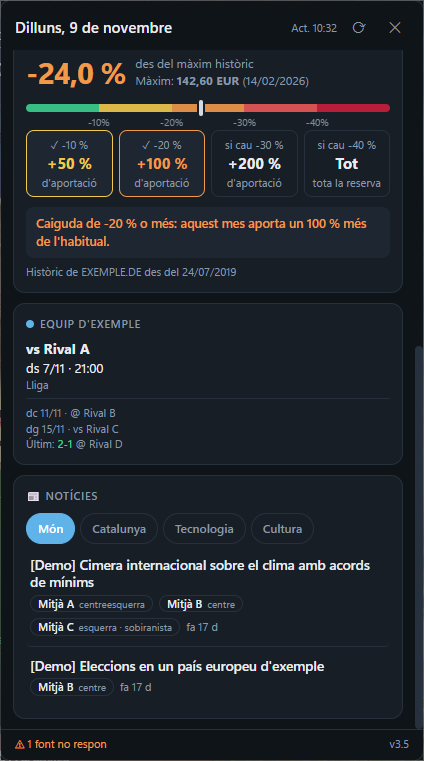
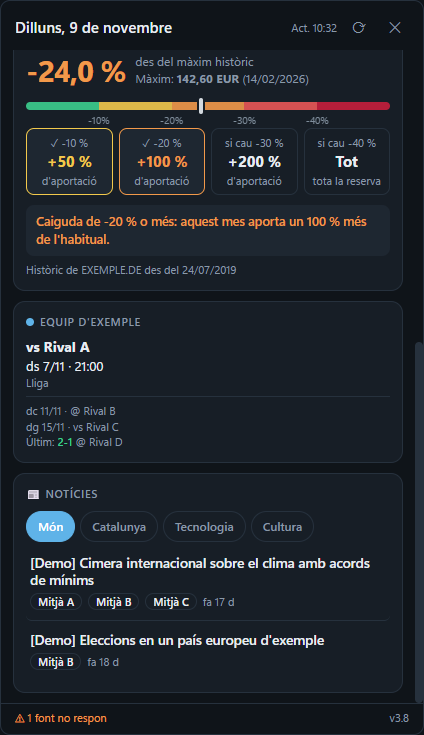
docs: shorter, generic README with the stack and fresh screenshots (#12)
Rewrite the README in a neutral voice (what it does, stack, architecture,
install, development) and retake the --demo screenshots without the leaning
labels.

diff --git a/README.md b/README.md
@@ -3,126 +3,79 @@
 [![CI](https://github.com/arni91/PanelDiario/actions/workflows/ci.yml/badge.svg)](https://github.com/arni91/PanelDiario/actions/workflows/ci.yml)
 ![Python 3.12](https://img.shields.io/badge/python-3.12-blue)
 ![Windows](https://img.shields.io/badge/plataforma-Windows-0078d4)
-[![uv](https://img.shields.io/badge/deps-uv-de5fe9)](https://docs.astral.sh/uv/)
-[![Ruff](https://img.shields.io/badge/lint-ruff-d7ff64)](https://docs.astral.sh/ruff/)
-[![mypy](https://img.shields.io/badge/tipos-mypy-2a6db2)](https://mypy-lang.org/)
 [![Licencia MIT](https://img.shields.io/badge/licencia-MIT-green)](LICENSE)
 
-**Widget de escritorio para Windows que reúne en un vistazo lo que miro cada mañana**: el tiempo y los avisos de mi ciudad, mi agenda, los partidos de mi equipo, cuánto ha caído un ETF desde su máximo y las noticias de los medios que elijo, cada una con su fuente.
-
-Una píldora en el escritorio muestra la temperatura; un clic despliega el panel. La primera vez, un asistente pregunta qué quieres ver con listas y casillas (siempre con «Un altre…» al final), para escribir lo mínimo; nada personal está en el código.
+Widget de escritorio para Windows que reúne en un panel el tiempo, la agenda, el fútbol, la evolución de un ETF y las noticias de los medios que elija cada usuario. Una píldora en el escritorio muestra la temperatura; un clic despliega el panel. La primera vez, un asistente lo configura todo con listas y casillas.
 
 <p align="center">
-  <img src="docs/capturas/panel.png" width="31%" alt="Panel: avisos, tiempo por horas y días, agenda y caídas de un ETF">
-  <img src="docs/capturas/panel-noticias.png" width="31%" alt="Panel: niveles de aportación, fútbol y noticias por pestañas">
-  <img src="docs/capturas/asistente.png" width="34%" alt="Asistente de configuración: paso de noticias">
+  <img src="docs/capturas/panel.png" width="31%" alt="Panel: avisos, tiempo, agenda y ETF">
+  <img src="docs/capturas/panel-noticias.png" width="31%" alt="Panel: fútbol y noticias por pestañas">
+  <img src="docs/capturas/asistente.png" width="34%" alt="Asistente de configuración">
 </p>
 <p align="center"><sub>Capturas con <code>--demo</code> (datos inventados). Interfaz en catalán.</sub></p>
 
-## Qué hace
+## Funciones
 
-| Sección | Detalle | Fuente |
+| Sección | Qué muestra | Fuente de datos |
 |---|---|---|
-| 🌤 Tiempo y avisos | Ahora, próximas 12 h, 6 días y avisos oficiales de tu zona | Open-Meteo, MeteoAlarm |
-| 📅 Agenda | Eventos de hoy y de la semana; enlaces de videollamada clicables | Google Calendar, Outlook o iCloud (iCal) |
-| ⚽ Fútbol | Próximos partidos y último resultado de tu equipo | football-data.org |
-| 📉 Caídas de un ETF | Caída desde el máximo histórico y cuánto aportar de más (en %) en cada nivel | Yahoo Finance |
-| 📰 Noticias | Pestañas por ámbito, tema o medio; la misma noticia en varios medios se agrupa; cada titular lleva el nombre del medio; catálogo de diarios con sus feeds por sección (Món, Catalunya, Espanya, Mobilitzacions, Tecnologia); otros idiomas → catalán | RSS, Google Noticias |
-| ✨ IA (opcional) | Selecciona las noticias más relevantes y las resume en una línea | API de Claude |
+| Tiempo | Ahora, próximas horas, 6 días y avisos oficiales | Open-Meteo, MeteoAlarm |
+| Agenda | Eventos de hoy y de la semana | Calendario iCal (Google, Outlook, iCloud) |
+| Fútbol | Próximos partidos y último resultado de un equipo | football-data.org |
+| ETF | Caída desde el máximo y aportación extra por niveles (en %) | Yahoo Finance |
+| Noticias | Pestañas por ámbito o tema, noticias repetidas agrupadas y el medio de cada titular; otros idiomas se traducen al catalán | RSS, Google Noticias |
+| IA (opcional) | Selección y resumen de las noticias más relevantes | API de Claude |
 
-## Aspectos técnicos destacados
+## Stack
 
-- **Integración nativa con Windows sin frameworks pesados**: la píldora se ancla a la capa de iconos del escritorio con la API Win32 (`ctypes`: `SetParent` sobre `SHELLDLL_DefView`), sobrevive a Win+D, recuerda su posición en configuraciones multimonitor y tiene esquinas redondeadas con regiones GDI corregidas por escalado DPI ([`win32.py`](src/panel_diario/win32.py)).
-- **Resiliencia**: cada fuente se consulta en paralelo y por separado; si una falla, se muestra su último dato bueno y un aviso en el pie, nunca un panel roto ([`estado.py`](src/panel_diario/estado.py)).
-- **Secretos fuera de los logs**: la dirección iCal es secreta, y las excepciones de `requests` incluyen la URL; la agenda y el traductor las sustituyen por un motivo corto (`HTTP 404`, `ConnectionError`) antes de que lleguen al log, a la caché o a la interfaz, con un test que lo comprueba ([`fuentes/agenda.py`](src/panel_diario/fuentes/agenda.py)).
-- **Privacidad por diseño en un repositorio público**: toda la configuración personal vive en un `config.json` ignorado por git; un hook de pre-commit (y CI) bloquea cualquier commit que contenga claves, tokens o términos de una lista privada ([`scripts/revisar_privacidad.py`](scripts/revisar_privacidad.py)).
-- **Interfaz web dentro de una app de escritorio**: HTML/CSS/JS sin framework en ventanas de [pywebview](https://pywebview.flowrl.com/), comunicadas con Python mediante su puente `js_api`.
-- **Agrupación de noticias**: detecta la misma noticia en varios medios por similitud de palabras clave (Jaccard) y elige la versión del medio preferido ([`fuentes/noticias.py`](src/panel_diario/fuentes/noticias.py)). Cada titular muestra el nombre de cada medio que lo publica.
-- **Calidad automatizada**: 141 tests con la red simulada (pytest), tipos estrictos en todas las funciones (mypy), lint y formato (ruff), pre-commit y GitHub Actions en Windows.
+| Capa | Tecnología |
+|---|---|
+| Lenguajes | Python 3.12 · HTML, CSS y JavaScript (sin framework) |
+| Interfaz de escritorio | [pywebview](https://pywebview.flowrl.com/) (WebView2) · pystray (icono de la bandeja) · API Win32 con `ctypes` |
+| Datos | `requests` · `feedparser` (RSS) · `icalendar` |
+| Entorno y dependencias | [uv](https://docs.astral.sh/uv/) con `uv.lock` |
+| Calidad | pytest (red simulada) · mypy estricto · ruff · pre-commit |
+| CI | GitHub Actions en Windows |
 
 ## Arquitectura
 
-```mermaid
-flowchart LR
-    subgraph fuentes["fuentes/ — un módulo por API"]
-        direction TB
-        tiempo & avisos & noticias & futbol & agenda & drawdown & ia
-    end
-    cfg[(config.json)] --> config[config.py]
-    config --> app
-    fuentes -->|en paralelo| estado["estado.py<br/>último dato bueno + caché"]
-    estado --> app["app.py<br/>ventanas y bucle"]
-    app <-->|js_api| ui["ui/<br/>ficha · panel · asistente"]
-    app --> bandeja[bandeja.py] & win32["win32.py<br/>API de Windows"]
-    ui -.->|respuestas| asistente[asistente.py] -.->|escribe| cfg
-```
-
 ```
 src/panel_diario/
-├── app.py            ventanas de pywebview, puente con JavaScript y bucle de actualización
-├── config.py         rutas, lectura y escritura de config.json, zona horaria
-├── estado.py         último dato bueno de cada sección y caché en disco
-├── asistente.py      lógica del asistente de configuración (y su puente con JS)
-├── outlets.py        catálogo público de medios: feeds RSS por sección
-├── bandeja.py        icono junto al reloj con la temperatura
-├── win32.py          llamadas a la API de Windows (ctypes)
-├── fuentes/          una fuente de datos por módulo
-│   ├── comun.py          HTTP, zona horaria y utilidades de texto compartidas
-│   └── tiempo · avisos · noticias · traduccion · ia · futbol · agenda · drawdown
-├── ui/               ficha.html (píldora) · index.html (panel) · asistente.html
-└── demo.json         datos de demostración (--demo)
-tests/                pytest, red simulada: un fichero por módulo
-scripts/              revisión de privacidad (pre-commit y CI)
-docs/                 referencia de configuración, medios del catálogo (feeds) y capturas
+├── app.py          ventanas, puente Python ↔ JavaScript y bucle de actualización
+├── config.py       lectura y escritura de config.json
+├── estado.py       último dato bueno de cada sección y caché
+├── asistente.py    lógica del asistente de configuración
+├── outlets.py      catálogo de medios con sus feeds RSS
+├── bandeja.py      icono junto al reloj
+├── win32.py        integración con Windows (anclar al escritorio, monitores)
+├── fuentes/        una fuente de datos por módulo, con HTTP común en comun.py
+└── ui/             píldora, panel y asistente (HTML/CSS/JS)
+tests/              un fichero de tests por módulo
+scripts/            revisión de privacidad (pre-commit y CI)
+docs/               referencia de configuración y catálogo de medios
 ```
 
-## Decisiones de diseño
-
-| Decisión | Por qué | Alternativa descartada |
-|---|---|---|
-| pywebview + HTML | Interfaz moderna con CSS y una app ligera (usa el WebView2 de Windows) | Electron: 100+ MB y otro runtime; Tkinter/Qt: más esfuerzo para el mismo resultado visual |
-| Google Calendar por iCal | Solo lectura, sin proyecto en Google Cloud ni pantallas OAuth | API de Google Calendar: más permisos de los necesarios |
-| Niveles del ETF en % | El widget no guarda importes: cada uno aplica el % a su aportación | Importes en euros: dato personal dentro de la configuración |
-| uv + `uv.lock` | Instalación reproducible y descarga de Python incluida | pip + requirements: sin lock real |
-| Traducción en lotes, secuencial y con memoria en disco | Una petición por titular hacía que Google respondiera 429; así son 1-2 peticiones por actualización, cada texto se traduce una sola vez y, si Google bloquea, la pausa se guarda en disco y se dobla con cada bloqueo seguido | Una petición por texto en paralelo |
-| Asistente con listas y «Un altre…» al final | Elegir es más rápido y da menos errores que escribir; lo que se escribe (RSS, iCal, ticker) se comprueba antes de guardarlo | Editar config.json a mano |
-| Errores por fuente, no globales | Un servicio caído no puede dejar el panel en blanco | Un único try global: todo o nada |
+Principios: cada fuente se consulta en paralelo y por separado, y si una falla se muestra su último dato bueno; la configuración personal vive solo en `config.json`, fuera de git; los secretos (como la dirección iCal) nunca llegan al log.
 
 ## Instalación
 
-Requisitos: Windows 10/11 y [uv](https://docs.astral.sh/uv/) (`winget install astral-sh.uv`). No hace falta instalar Python: uv descarga la versión correcta.
+Requisitos: Windows 10/11 y [uv](https://docs.astral.sh/uv/) (`winget install astral-sh.uv`). uv descarga Python.
 
-1. Descarga el proyecto (**Code → Download ZIP** o `git clone`) en una carpeta fuera de OneDrive, por ejemplo `C:\dev\PanelDiario`.
-2. Doble clic en **`instalar.bat`**: instala las dependencias exactas de `uv.lock`, crea los accesos directos (también para arrancar con Windows) y abre el panel. Desde una terminal o un script: `instalar.bat /silencioso` (sin pausas).
-3. La primera vez se abre el **asistente**: elige tu ciudad, calendario, equipo, ETF y los medios de cada pestaña de noticias de listas y casillas (la última opción, «Un altre…», abre una entrada manual). Cada paso se puede saltar.
+1. Descarga el repositorio (**Code → Download ZIP** o `git clone`).
+2. Ejecuta **`instalar.bat`**: instala las dependencias, crea los accesos directos y abre el panel.
+3. Sigue el asistente. Cada paso se puede saltar y cambiar después desde el icono junto al reloj → **Configura…**
 
-Uso: clic en la píldora para desplegar el panel (otro clic, Esc o clic fuera lo recoge); arrástrala para moverla; **Ctrl+Alt+N** también lo abre. Desde el icono junto al reloj: actualizar, **Configura…** (el asistente) y salir.
-
-La referencia completa de `config.json` está en [docs/configuracion.md](docs/configuracion.md).
+Uso: clic en la píldora para abrir el panel, arrastrar para moverla, **Ctrl+Alt+N** para abrirlo. Referencia completa de `config.json`: [docs/configuracion.md](docs/configuracion.md).
 
 ## Desarrollo
 
 ```bash
-uv sync                                      # dependencias + herramientas de desarrollo
-uv run pre-commit install                    # ruff, mypy y privacidad antes de cada commit
-uv run python -m panel_diario --demo         # interfaz con datos inventados, sin internet
-uv run python -m panel_diario --consola      # con el log en la consola
-uv run python -m panel_diario --asistente    # abre el asistente al arrancar
-uv run pytest                                # tests (red simulada)
-uv run ruff check && uv run ruff format --check && uv run mypy
-uv run python -m panel_diario.probar_fuentes # comprueba las fuentes reales de tu config.json
+uv sync                                   # dependencias y herramientas de desarrollo
+uv run pre-commit install                 # comprobaciones antes de cada commit
+uv run python -m panel_diario --demo      # interfaz con datos inventados
+uv run pytest                             # tests
+uv run ruff check && uv run mypy          # lint y tipos
 ```
-
-**Revisión de privacidad**: pon en `.privado/terminos.txt` (fuera de git) lo que nunca debe publicarse —tu ciudad, tu nombre, tus claves—, uno por línea. El hook bloquea el commit si aparece en algún fichero versionado; en CI, sin esa lista, busca solo formas de claves y tokens.
-
-Log en ejecución: `%APPDATA%\PanelDiario\panel.log`.
-
-## Limitaciones conocidas
-
-- Solo Windows: el anclaje al escritorio usa la API Win32.
-- Yahoo Finance, el traductor de Google y Google Noticias son servicios no oficiales: pueden fallar puntualmente (el panel muestra el último dato bueno).
-- Interfaz solo en catalán; las noticias se muestran en catalán o castellano y el resto se traduce al catalán (si el traductor no responde, se deja el original).
 
 ## Licencia
 
-[MIT](LICENSE) · Datos: Open-Meteo, MeteoAlarm, football-data.org, Yahoo Finance, Google Noticias y los medios enlazados en cada titular.
+[MIT](LICENSE)
